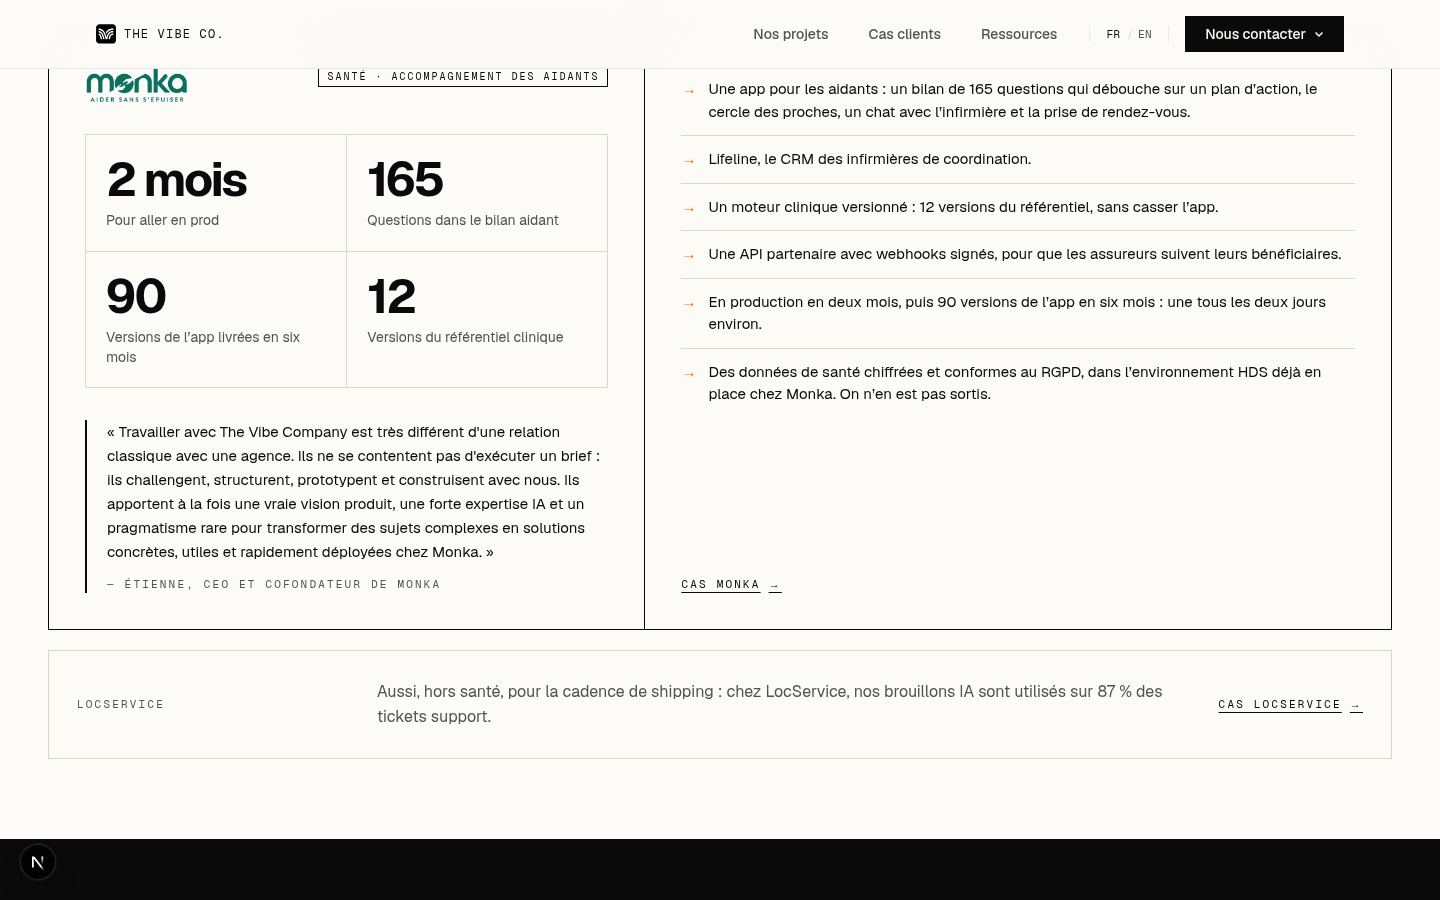
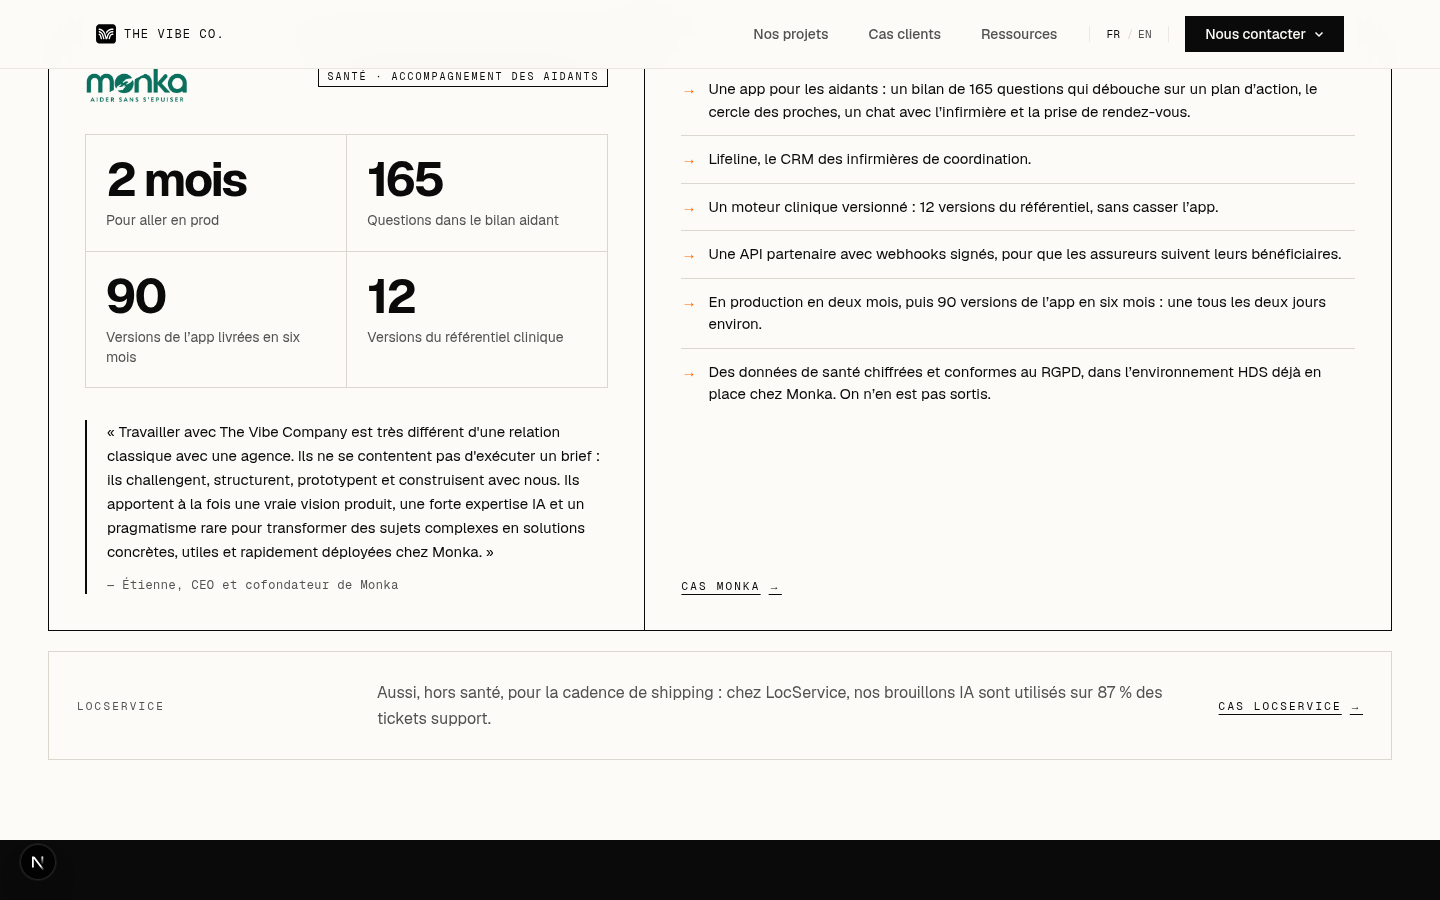
fix(seo): keep Étienne's attribution as written and the mobile reply time on one line

diff --git a/src/components/healthcare-ai/HealthcareAiPage.tsx b/src/components/healthcare-ai/HealthcareAiPage.tsx
@@ -401,7 +401,8 @@ export async function HealthcareAiPage({ locale }: { locale: string }) {
                     <blockquote className="m-0 text-[15px] leading-[1.6] text-foreground">
                       {locale === "fr" ? `« ${monka.quote.text} »` : `“${monka.quote.text}”`}
                     </blockquote>
-                    <figcaption className={`mt-3 ${MONO}`}>
+                    {/* Not uppercased: the attribution reads exactly as written. */}
+                    <figcaption className="mt-3 font-mono text-[12px] tracking-[0.04em] text-muted-foreground">
                       {t("proof.quoteAttribution", { author: monka.quote.author })}
                     </figcaption>
                   </figure>
